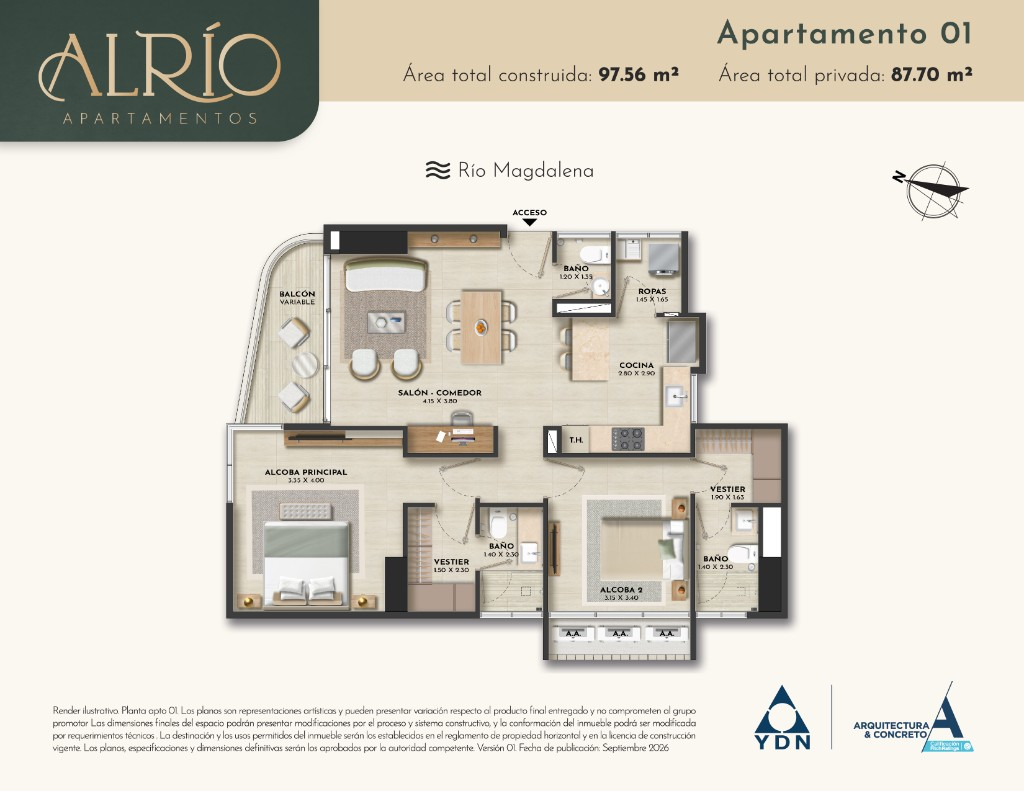
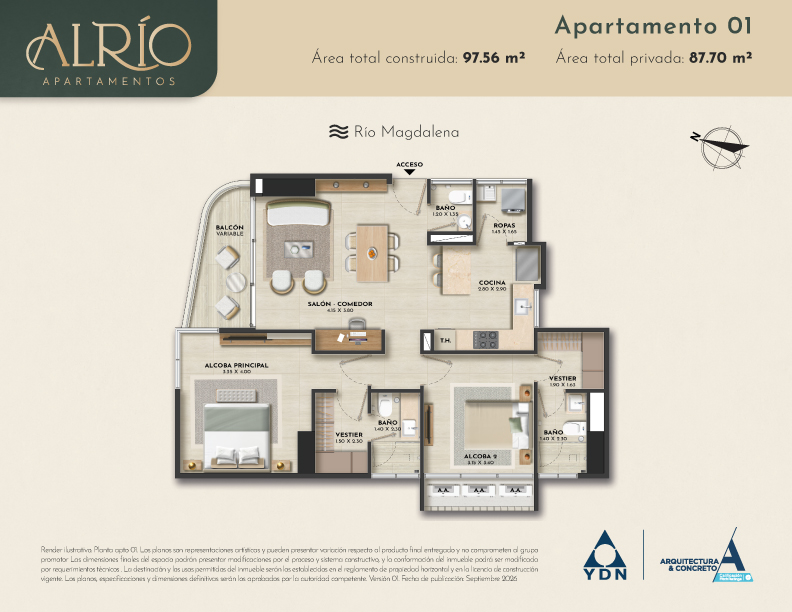
ajustes

diff --git a/index.html b/index.html
@@ -206,7 +206,7 @@
 		<section class="ubic" aria-label="Qué hay cerca del proyecto">
 			<div class="ubic__visor" id="visor">
 				<div class="ubic__capa" id="capa">
-					<img id="foto" src="assets/ubicacion-alrio.jpg" alt="Vista aérea del proyecto ALRÍO y su entorno">
+					<img id="foto" src="assets/ubicacion-alrio.png?v=2" alt="Vista aérea del proyecto ALRÍO y su entorno">
 					<div class="ubic__halo" id="halo"></div>
 				</div>
 			</div>
@@ -497,59 +497,83 @@
 					<svg viewBox="0 0 24 24" aria-hidden="true"><path d="M15 5 L8 12 L15 19" fill="none" stroke="currentColor" stroke-width="1.8" stroke-linecap="round" stroke-linejoin="round"/></svg>
 				</button>
 				<div class="al-cover-stage">
-					<figure class="al-cover-card" data-lb="assets/apt-01-alcoba.png">
-						<img loading="lazy" src="assets/apt-01-alcoba.png" alt="Alcoba ALRÍO">
+					<figure class="al-cover-card" data-lb="assets/apt-07-alcoba.png">
+						<img loading="lazy" src="assets/apt-07-alcoba.png" alt="Alcoba (Apartamento 1)">
 						<figcaption>
-							<span class="al-cover-name" data-en="Bedroom">Alcoba</span>
+							<span class="al-cover-title-row">
+								<span class="al-cover-name" data-en="Bedroom">Alcoba</span>
+								<span class="al-cover-apt" data-en="(Apartment 1)">(Apartamento 1)</span>
+							</span>
 							<span class="al-cover-ref" data-en="Reference image">Imagen de referencia</span>
 						</figcaption>
 					</figure>
 					<figure class="al-cover-card" data-lb="assets/apt-02-cocina.png">
-						<img loading="lazy" src="assets/apt-02-cocina.png" alt="Cocina ALRÍO">
+						<img loading="lazy" src="assets/apt-02-cocina.png" alt="Cocina (Apartamento 1)">
 						<figcaption>
-							<span class="al-cover-name" data-en="Kitchen">Cocina</span>
-							<span class="al-cover-ref" data-en="Reference image">Imagen de referencia</span>
-						</figcaption>
-					</figure>
-					<figure class="al-cover-card" data-lb="assets/apt-03-cocina.png">
-						<img loading="lazy" src="assets/apt-03-cocina.png" alt="Cocina ALRÍO">
-						<figcaption>
-							<span class="al-cover-name" data-en="Kitchen">Cocina</span>
-							<span class="al-cover-ref" data-en="Reference image">Imagen de referencia</span>
-						</figcaption>
-					</figure>
-					<figure class="al-cover-card" data-lb="assets/apt-04-sala-comedor.png">
-						<img loading="lazy" src="assets/apt-04-sala-comedor.png" alt="Sala y comedor ALRÍO">
-						<figcaption>
-							<span class="al-cover-name" data-en="Living &amp; dining">Sala y comedor</span>
-							<span class="al-cover-ref" data-en="Reference image">Imagen de referencia</span>
-						</figcaption>
-					</figure>
-					<figure class="al-cover-card" data-lb="assets/apt-05-sala-comedor.png">
-						<img loading="lazy" src="assets/apt-05-sala-comedor.png" alt="Sala y comedor ALRÍO">
-						<figcaption>
-							<span class="al-cover-name" data-en="Living &amp; dining">Sala y comedor</span>
+							<span class="al-cover-title-row">
+								<span class="al-cover-name" data-en="Kitchen">Cocina</span>
+								<span class="al-cover-apt" data-en="(Apartment 1)">(Apartamento 1)</span>
+							</span>
 							<span class="al-cover-ref" data-en="Reference image">Imagen de referencia</span>
 						</figcaption>
 					</figure>
 					<figure class="al-cover-card" data-lb="assets/apt-06-sala.png">
-						<img loading="lazy" src="assets/apt-06-sala.png" alt="Sala ALRÍO">
+						<img loading="lazy" src="assets/apt-06-sala.png" alt="Sala (Apartamento 1)">
 						<figcaption>
-							<span class="al-cover-name" data-en="Living room">Sala</span>
-							<span class="al-cover-ref" data-en="Reference image">Imagen de referencia</span>
-						</figcaption>
-					</figure>
-					<figure class="al-cover-card" data-lb="assets/apt-07-alcoba.png">
-						<img loading="lazy" src="assets/apt-07-alcoba.png" alt="Alcoba ALRÍO">
-						<figcaption>
-							<span class="al-cover-name" data-en="Bedroom">Alcoba</span>
+							<span class="al-cover-title-row">
+								<span class="al-cover-name" data-en="Living room">Sala</span>
+								<span class="al-cover-apt" data-en="(Apartment 1)">(Apartamento 1)</span>
+							</span>
 							<span class="al-cover-ref" data-en="Reference image">Imagen de referencia</span>
 						</figcaption>
 					</figure>
 					<figure class="al-cover-card" data-lb="assets/apt-08-bano.png">
-						<img loading="lazy" src="assets/apt-08-bano.png" alt="Baño ALRÍO">
+						<img loading="lazy" src="assets/apt-08-bano.png" alt="Baño (Apartamento 1)">
 						<figcaption>
-							<span class="al-cover-name" data-en="Bathroom">Baño</span>
+							<span class="al-cover-title-row">
+								<span class="al-cover-name" data-en="Bathroom">Baño</span>
+								<span class="al-cover-apt" data-en="(Apartment 1)">(Apartamento 1)</span>
+							</span>
+							<span class="al-cover-ref" data-en="Reference image">Imagen de referencia</span>
+						</figcaption>
+					</figure>
+					<figure class="al-cover-card" data-lb="assets/apt-01-alcoba.png">
+						<img loading="lazy" src="assets/apt-01-alcoba.png" alt="Alcoba (Apartamento 2)">
+						<figcaption>
+							<span class="al-cover-title-row">
+								<span class="al-cover-name" data-en="Bedroom">Alcoba</span>
+								<span class="al-cover-apt" data-en="(Apartment 2)">(Apartamento 2)</span>
+							</span>
+							<span class="al-cover-ref" data-en="Reference image">Imagen de referencia</span>
+						</figcaption>
+					</figure>
+					<figure class="al-cover-card" data-lb="assets/apt-03-cocina.png">
+						<img loading="lazy" src="assets/apt-03-cocina.png" alt="Cocina (Apartamento 2)">
+						<figcaption>
+							<span class="al-cover-title-row">
+								<span class="al-cover-name" data-en="Kitchen">Cocina</span>
+								<span class="al-cover-apt" data-en="(Apartment 2)">(Apartamento 2)</span>
+							</span>
+							<span class="al-cover-ref" data-en="Reference image">Imagen de referencia</span>
+						</figcaption>
+					</figure>
+					<figure class="al-cover-card" data-lb="assets/apt-04-sala-comedor.png">
+						<img loading="lazy" src="assets/apt-04-sala-comedor.png" alt="Sala y comedor (Apartamento 2)">
+						<figcaption>
+							<span class="al-cover-title-row">
+								<span class="al-cover-name" data-en="Living &amp; dining">Sala y comedor</span>
+								<span class="al-cover-apt" data-en="(Apartment 2)">(Apartamento 2)</span>
+							</span>
+							<span class="al-cover-ref" data-en="Reference image">Imagen de referencia</span>
+						</figcaption>
+					</figure>
+					<figure class="al-cover-card" data-lb="assets/apt-05-sala-comedor.png">
+						<img loading="lazy" src="assets/apt-05-sala-comedor.png" alt="Sala y comedor (Apartamento 2)">
+						<figcaption>
+							<span class="al-cover-title-row">
+								<span class="al-cover-name" data-en="Living &amp; dining">Sala y comedor</span>
+								<span class="al-cover-apt" data-en="(Apartment 2)">(Apartamento 2)</span>
+							</span>
 							<span class="al-cover-ref" data-en="Reference image">Imagen de referencia</span>
 						</figcaption>
 					</figure>
@@ -578,36 +602,36 @@
 				<svg viewBox="0 0 24 24" aria-hidden="true"><path d="M15 5 L8 12 L15 19" fill="none" stroke="currentColor" stroke-width="1.8" stroke-linecap="round" stroke-linejoin="round"/></svg>
 			</button>
 			<div class="al-cover-stage">
-				<figure class="al-cover-card" data-lb="assets/plano-01.png">
-					<img loading="lazy" src="assets/plano-01.png" alt="Apartamento 01 ALRÍO">
+				<figure class="al-cover-card" data-lb="assets/plano-01.png?v=2">
+					<img loading="lazy" src="assets/plano-01.png?v=2" alt="Apartamento 01 ALRÍO">
 					<figcaption>
 						<span class="al-cover-name" data-en="Apartment 01 · 97.56 m²">Apartamento 01 · 97.56 m²</span>
 						<span class="al-cover-ref" data-en="Reference image">Imagen de referencia</span>
 					</figcaption>
 				</figure>
-				<figure class="al-cover-card" data-lb="assets/plano-02.png">
-					<img loading="lazy" src="assets/plano-02.png" alt="Apartamento 02 ALRÍO">
+				<figure class="al-cover-card" data-lb="assets/plano-02.png?v=2">
+					<img loading="lazy" src="assets/plano-02.png?v=2" alt="Apartamento 02 ALRÍO">
 					<figcaption>
 						<span class="al-cover-name" data-en="Apartment 02 · 149.62 m²">Apartamento 02 · 149.62 m²</span>
 						<span class="al-cover-ref" data-en="Reference image">Imagen de referencia</span>
 					</figcaption>
 				</figure>
-				<figure class="al-cover-card" data-lb="assets/plano-03.png">
-					<img loading="lazy" src="assets/plano-03.png" alt="Apartamento 03 ALRÍO">
+				<figure class="al-cover-card" data-lb="assets/plano-03.png?v=2">
+					<img loading="lazy" src="assets/plano-03.png?v=2" alt="Apartamento 03 ALRÍO">
 					<figcaption>
 						<span class="al-cover-name" data-en="Apartment 03 · 88.91 m²">Apartamento 03 · 88.91 m²</span>
 						<span class="al-cover-ref" data-en="Reference image">Imagen de referencia</span>
 					</figcaption>
 				</figure>
-				<figure class="al-cover-card" data-lb="assets/plano-04.png">
-					<img loading="lazy" src="assets/plano-04.png" alt="Apartamento 04 ALRÍO">
+				<figure class="al-cover-card" data-lb="assets/plano-04.png?v=2">
+					<img loading="lazy" src="assets/plano-04.png?v=2" alt="Apartamento 04 ALRÍO">
 					<figcaption>
 						<span class="al-cover-name" data-en="Apartment 04 · 121.22 m²">Apartamento 04 · 121.22 m²</span>
 						<span class="al-cover-ref" data-en="Reference image">Imagen de referencia</span>
 					</figcaption>
 				</figure>
-				<figure class="al-cover-card" data-lb="assets/plano-05.png">
-					<img loading="lazy" src="assets/plano-05.png" alt="Apartamento 05 ALRÍO">
+				<figure class="al-cover-card" data-lb="assets/plano-05.png?v=2">
+					<img loading="lazy" src="assets/plano-05.png?v=2" alt="Apartamento 05 ALRÍO">
 					<figcaption>
 						<span class="al-cover-name" data-en="Apartment 05 · 97.56 m²">Apartamento 05 · 97.56 m²</span>
 						<span class="al-cover-ref" data-en="Reference image">Imagen de referencia</span>

diff --git a/css/extras.css b/css/extras.css
@@ -228,6 +228,21 @@ section.al-sec.al-sec-apart {
 }
 .al-cover-name,
 .al-cover-ref { display: block; }
+.al-cover-title-row {
+  display: flex;
+  flex-wrap: wrap;
+  justify-content: center;
+  align-items: baseline;
+  gap: 0.35em 1.1em;
+}
+.al-cover-title-row .al-cover-name,
+.al-cover-title-row .al-cover-apt { display: inline; }
+.al-cover-apt {
+  font-size: 0.95em;
+  letter-spacing: .14em;
+  font-weight: 400;
+  opacity: .95;
+}
 .al-cover-ref {
   margin-top: 6px;
   font-size: 10px;
